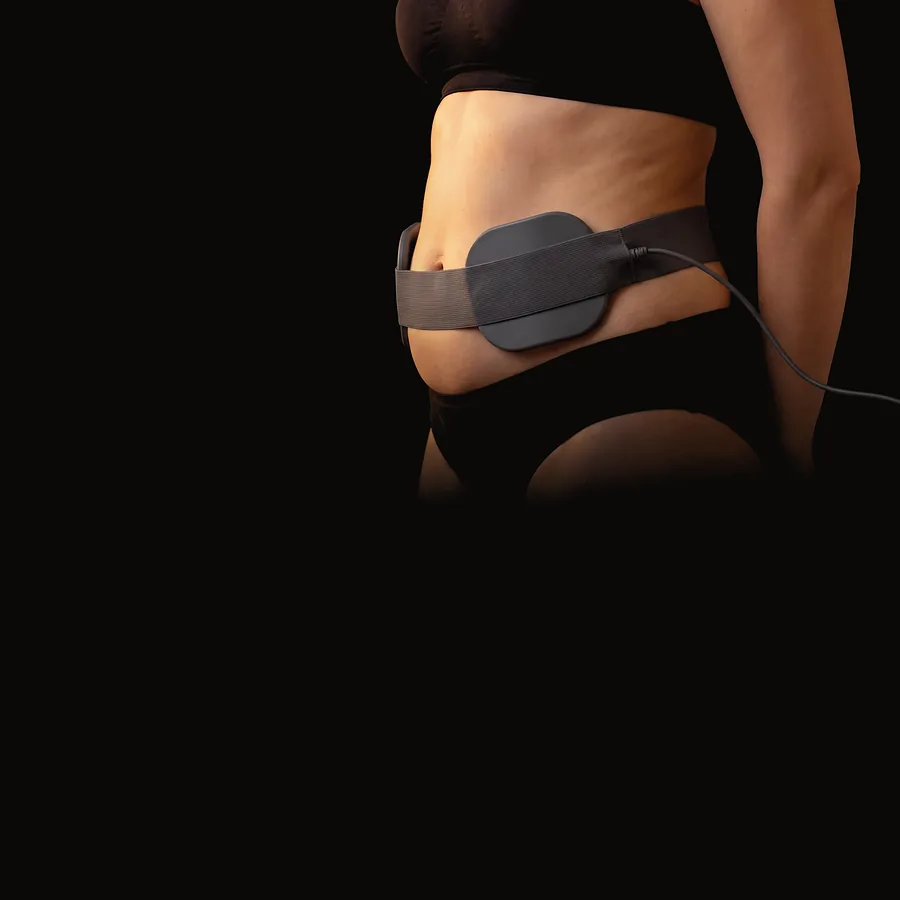
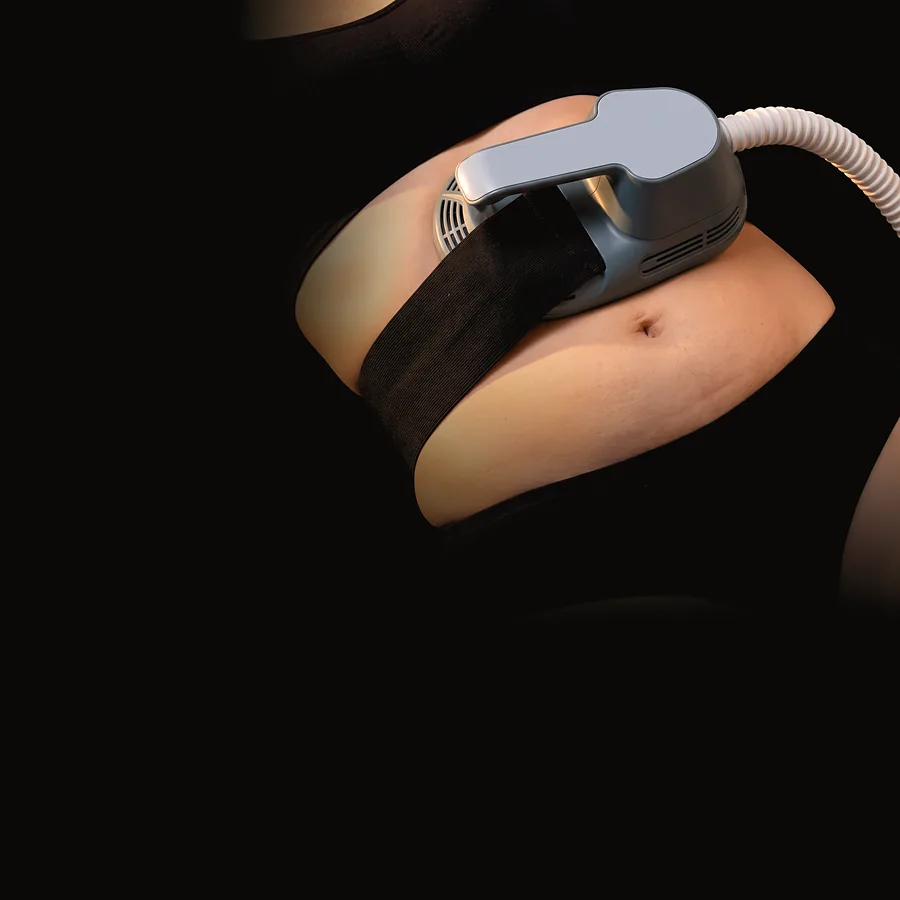
Oferte: EMS cu aparatul clinicii (aplicatorul mare cu centură), fără marcă
Claude-Session: https://claude.ai/code/session_01XaGrGDXsLhshqo7oDCWH8m

Changed region(s): [[0.3111, 0.0, 1.0, 0.5911], [0.9333, 0.4356, 1.0, 0.6533], [0.28, 0.0, 0.4667, 0.0622]]

diff --git a/v2/shop.js b/v2/shop.js
@@ -192,7 +192,7 @@
   // brand_asset/tratamente/problem/<id>.webp (900) and -450, the subject in the upper right, fading into black
   var PROB = { hifu: 1, biolifting: 1, 'hifu-corp': 1, liposonix: 1, cavitatie: 1, radiofrecventa: 1, ems: 1, impachetare: 1, restart: 1, hidratare: 1, antirid: 1, redness: 1, 'sebum-off': 1, 'masaj-facial': 1 };
   var tileImg = function (p) {
-    if (PROB[p.id]) { var pb = '/brand_asset/tratamente/problem/' + p.id; return 'class="pb" src="' + pb + '-450.webp?v=3" srcset="' + pb + '-450.webp?v=3 450w, ' + pb + '.webp?v=3 900w" sizes="(max-width:640px) calc(40vw - 20px), 230px"'; } var s = picW(p, 600), u = picOf(p); return 'src="' + esc(s) + '"' + (s !== u ? ' srcset="' + esc(s) + ' 600w, ' + esc(u) + ' 966w" sizes="(max-width:640px) calc(50vw - 31px), 270px"' : ''); };
+    if (PROB[p.id]) { var pb = '/brand_asset/tratamente/problem/' + p.id; return 'class="pb" src="' + pb + '-450.webp?v=4" srcset="' + pb + '-450.webp?v=4 450w, ' + pb + '.webp?v=4 900w" sizes="(max-width:640px) calc(40vw - 20px), 230px"'; } var s = picW(p, 600), u = picOf(p); return 'src="' + esc(s) + '"' + (s !== u ? ' srcset="' + esc(s) + ' 600w, ' + esc(u) + ' 966w" sizes="(max-width:640px) calc(50vw - 31px), 270px"' : ''); };
   var sesWord = function (n) { return n === 1 ? '1 ședință' : n + ' ședințe'; };
   var qOf = function (v) { return clamp(Math.floor(Number(v) || 1), 1, 10); };
   // the clinic: hers (the offers' filter, ?oras=, the checkout: one choice everywhere); with no choice, the one clinic her cart
